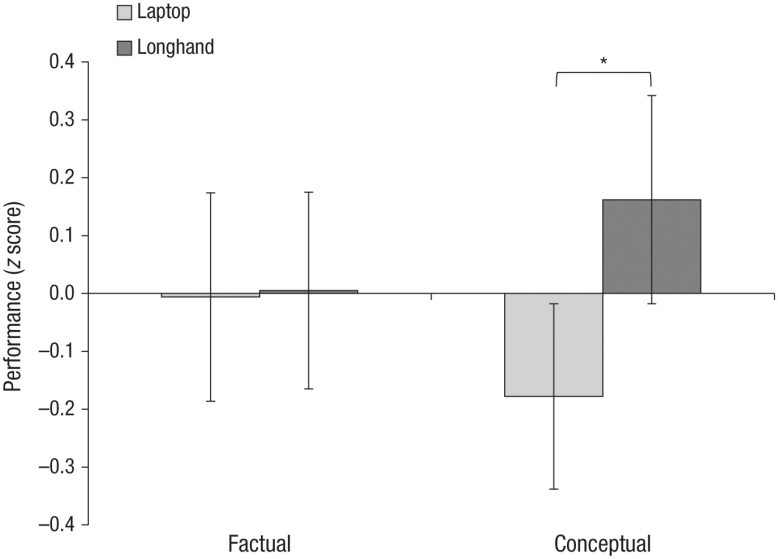
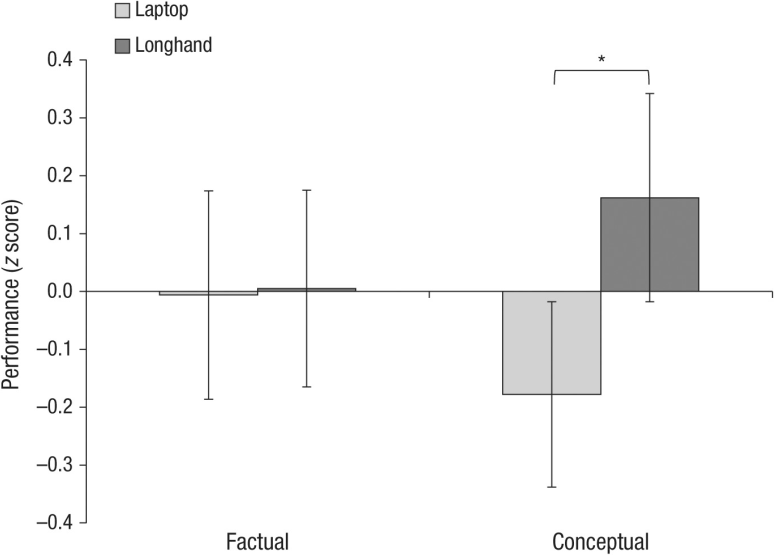
Standardize article figure sizing and trim image padding

diff --git a/styles.css b/styles.css
@@ -2085,15 +2085,17 @@ img {
 }
 
 .article-body--uniform-figures .article-figure {
-    width: min(100%, 760px);
-    margin: 2.25rem auto;
+    width: 100%;
+    margin: 2rem auto;
     padding: 0;
 }
 
 .article-body--uniform-figures .article-figure img {
     width: 100%;
-    max-width: 100%;
+    max-width: 700px;
     height: auto;
+    display: block;
+    margin: 2rem auto;
 }
 
 .article-body--uniform-figures .article-figure figcaption {
